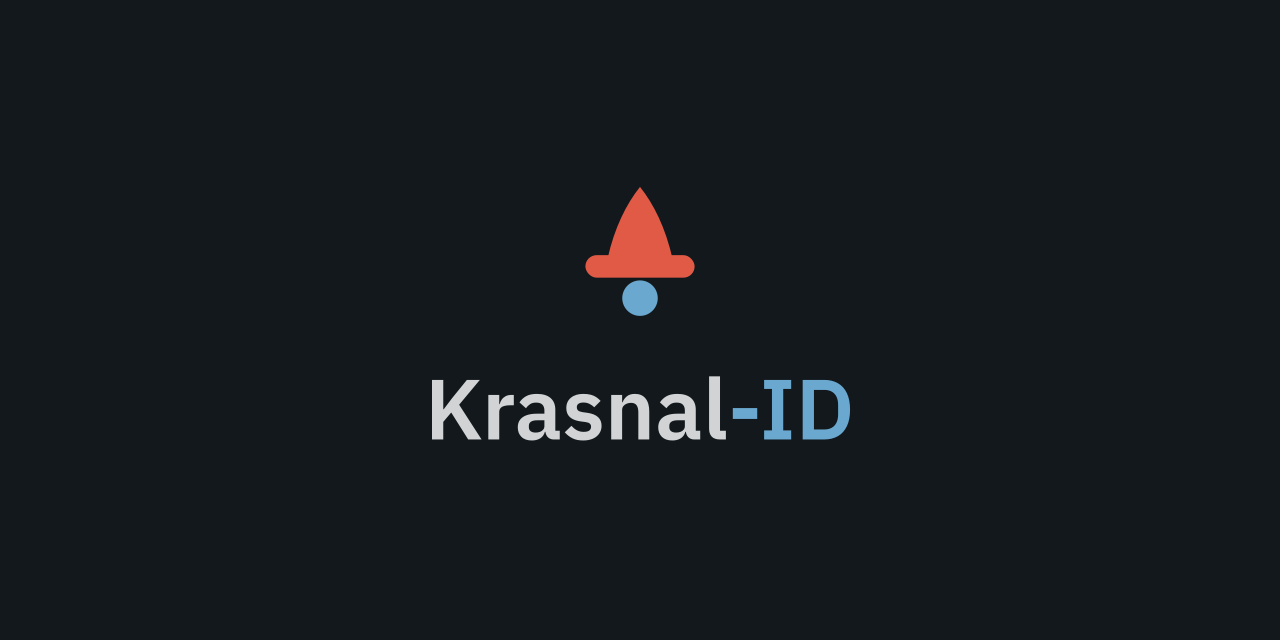
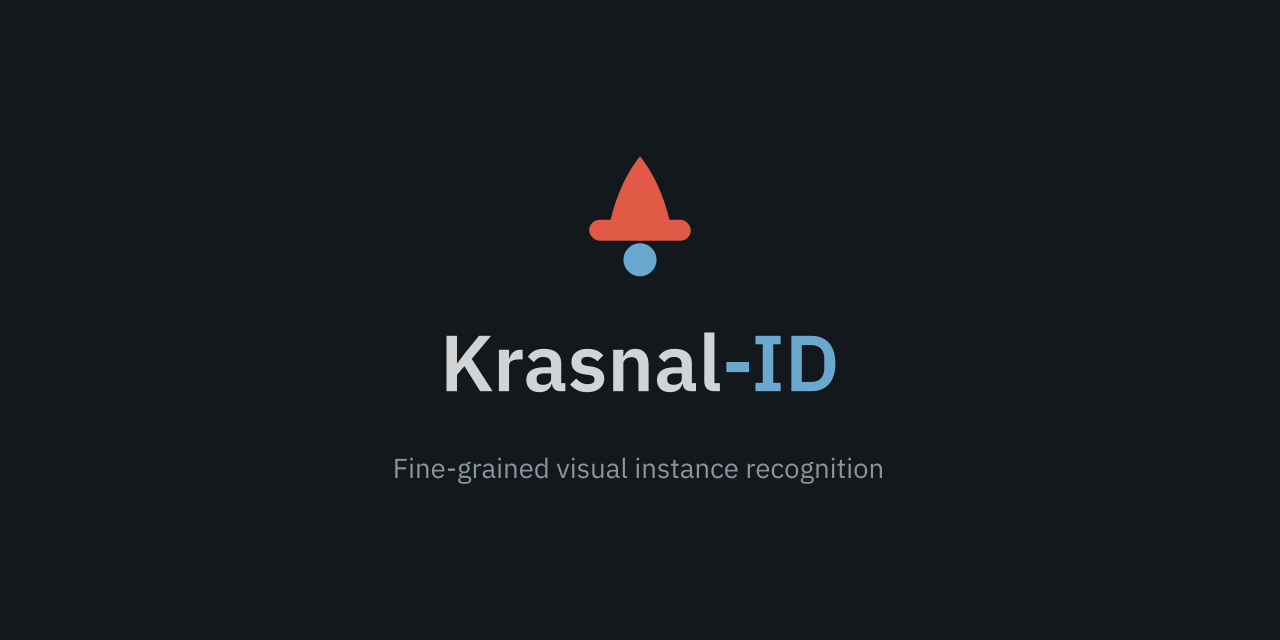
docs: add a tagline to the social preview card
The card carried the lockup alone on a large field, which read as empty at
share size. "Fine-grained visual instance recognition" sits under the wordmark
in the regular weight, and the pair is centred as one block.

Keep a plain variant without the tagline, since which one reads better depends
on where the link is shared. The tagline needs a second font weight; without
it the plates still render and the tagline is skipped.

Changed region(s): [[0.3125, 0.5, 0.6875, 0.6875], [0.4375, 0.25, 0.5625, 0.5], [0.3125, 0.7188, 0.6875, 0.75]]

diff --git a/docs/brand/generate.py b/docs/brand/generate.py
@@ -27,6 +27,11 @@ OUT = Path("docs/brand")
 # IBM Plex Sans SemiBold. Override with KRASNAL_BRAND_FONT; see the module docstring.
 FONT_FILE = os.environ.get("KRASNAL_BRAND_FONT", "plex600.ttf")
 
+# The tagline is set in the regular weight; without it the plate simply omits it.
+TAGLINE_FONT = os.environ.get("KRASNAL_BRAND_FONT_REGULAR", "plex400.ttf")
+TAGLINE = "Fine-grained visual instance recognition"
+TAGLINE_INK = "#8A9499"
+
 if not Path(FONT_FILE).is_file():
     raise SystemExit(
         f"font file not found: {FONT_FILE}\n"
@@ -95,11 +100,21 @@ _SIZE = 100.0
 _fp = FontProperties(fname=FONT_FILE)
 
 
-def _advance(text: str) -> float:
-    font = FT2Font(FONT_FILE)
+def _advance(text: str, font_file: str = FONT_FILE) -> float:
+    font = FT2Font(font_file)
     font.set_size(_SIZE, 72)
     font.set_text(text)
     return font.get_width_height()[0] / 64.0
+
+
+def outlined(
+    text: str, size: float, x: float, baseline: float, fill: str, font_file: str = FONT_FILE
+) -> tuple[str, float]:
+    """Return outlined path data for one run of text, and its advance width."""
+    scale = size / _SIZE
+    path = TextPath((0, 0), text, size=_SIZE, prop=FontProperties(fname=font_file))
+    body = f'<path d="{_to_svg_path(path, x, baseline, scale)}" fill="{fill}"/>'
+    return body, _advance(text, font_file) * scale
 
 
 def wordmark(x: float, baseline: float, size: float, ink: str, blue: str) -> tuple[str, float]:
@@ -148,7 +163,13 @@ for theme, red, blue, ink in (("light", RED, BLUE, INK), ("dark", RED_D, BLUE_D,
 
 
 def render_plate(
-    source: str, width: float, height: float, art_width: float, name: str, scale: int = 1
+    source: str,
+    width: float,
+    height: float,
+    art_width: float,
+    name: str,
+    scale: int = 1,
+    tagline: str | None = None,
 ) -> None:
     """Render one lockup centred on a dark plate, for places that need a raster."""
     try:
@@ -163,12 +184,29 @@ def render_plate(
     aw, ah = float(box[2]), float(box[3])
 
     factor = art_width / aw
-    x, y = (width - aw * factor) / 2, (height - ah * factor) / 2
+    caption = ""
+    caption_size = width * 0.0215
+    # The tagline sits below the lockup, so the pair is centred as one block.
+    block = ah * factor + (caption_size * 2.9 if tagline else 0)
+    x, y = (width - aw * factor) / 2, (height - block) / 2
+    if tagline:
+        if not Path(TAGLINE_FONT).is_file():
+            print(f"  {name}.png  tagline skipped (no {TAGLINE_FONT})")
+        else:
+            _, run = outlined(tagline, caption_size, 0, 0, TAGLINE_INK, TAGLINE_FONT)
+            caption, _ = outlined(
+                tagline,
+                caption_size,
+                (width - run) / 2,
+                y + ah * factor + caption_size * 2.0,
+                TAGLINE_INK,
+                TAGLINE_FONT,
+            )
     plate = (
         f'<svg xmlns="http://www.w3.org/2000/svg" viewBox="0 0 {width:g} {height:g}" '
         f'width="{width:g}" height="{height:g}">'
         f'<rect width="{width:g}" height="{height:g}" fill="#12181C"/>'
-        f'<g transform="translate({x:.2f},{y:.2f}) scale({factor:.4f})">{art}</g></svg>'
+        f'<g transform="translate({x:.2f},{y:.2f}) scale({factor:.4f})">{art}</g>{caption}</svg>'
     )
     cairosvg.svg2png(
         bytestring=plate.encode("utf-8"),
@@ -181,5 +219,6 @@ def render_plate(
 
 
 # GitHub renders the social preview at 1280x640.
-render_plate("krasnal-lockup-stacked-dark", 1280, 640, 430, "social-preview")
+render_plate("krasnal-lockup-stacked-dark", 1280, 640, 400, "social-preview", tagline=TAGLINE)
+render_plate("krasnal-lockup-stacked-dark", 1280, 640, 430, "social-preview-plain")
 render_plate("krasnal-lockup-stacked-dark", 720, 420, 300, "krasnal-lockup-stacked-dark", scale=2)

diff --git a/docs/brand/README.md b/docs/brand/README.md
@@ -8,7 +8,8 @@ enough to hold at 16 pixels.
 | `krasnal-mark-light.svg` / `krasnal-mark-dark.svg` | The mark alone — favicons, avatars, tight spaces. |
 | `krasnal-lockup-horizontal-light.svg` / `-dark.svg` | Name to the right of the mark — headers, README, slides. |
 | `krasnal-lockup-stacked-light.svg` / `-dark.svg` | Name below the mark — square spaces, title cards. |
-| `social-preview.png` | 1280×640 card on a dark ground, for the GitHub social preview (Settings → Social preview). |
+| `social-preview.png` | 1280×640 card on a dark ground with the tagline, for the GitHub social preview (Settings → Social preview). |
+| `social-preview-plain.png` | The same card without the tagline. |
 | `krasnal-lockup-stacked-dark.png` | The stacked lockup on a dark plate, 2×, for slides and anywhere SVG is not accepted. |
 
 ## Palette
@@ -36,5 +37,6 @@ regenerate instead.
     KRASNAL_BRAND_FONT=/path/to/IBMPlexSans-SemiBold.ttf \
       uv run --with matplotlib --with cairosvg python docs/brand/generate.py
 
-The font is not vendored here. `cairosvg` is optional — without it the SVGs are still written and
+The tagline is set in IBM Plex Sans Regular, so a second file is needed for it; without it the
+plates render and the tagline is skipped. Neither font is vendored here. `cairosvg` is optional — without it the SVGs are still written and
 the PNG plates are skipped.

diff --git a/CHANGELOG.md b/CHANGELOG.md
@@ -30,8 +30,8 @@ The format follows [Keep a Changelog](https://keepachangelog.com/en/1.1.0/). The
   threshold filtering, provenance fields, atomic output, CLI summaries, and offline integration
   coverage.
 
-- Added dark-ground raster plates to `docs/brand/`: a 1280x640 `social-preview.png` sized for the
-  GitHub social preview, and a 2x stacked lockup for slides.
+- Added dark-ground raster plates to `docs/brand/`: a 1280x640 `social-preview.png` carrying the
+  tagline, a plain variant without it, and a 2x stacked lockup for slides.
 - Added the project identity under `docs/brand/`: a mark and horizontal and stacked lockups, each
   in light and dark variants, with the wordmark converted to outlines so the files render without
   a font installed, plus the generator that produces them and the usage rules.
